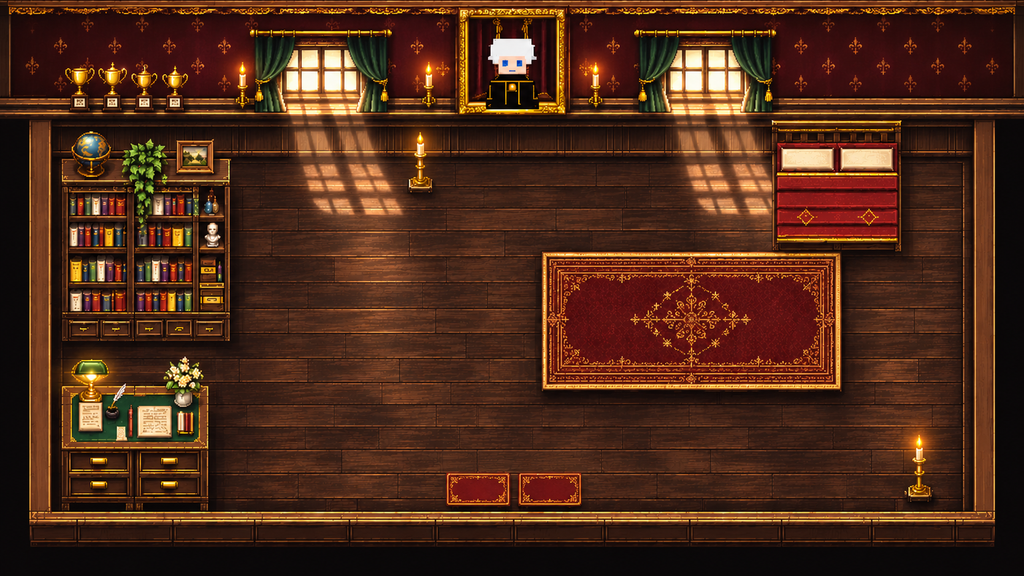
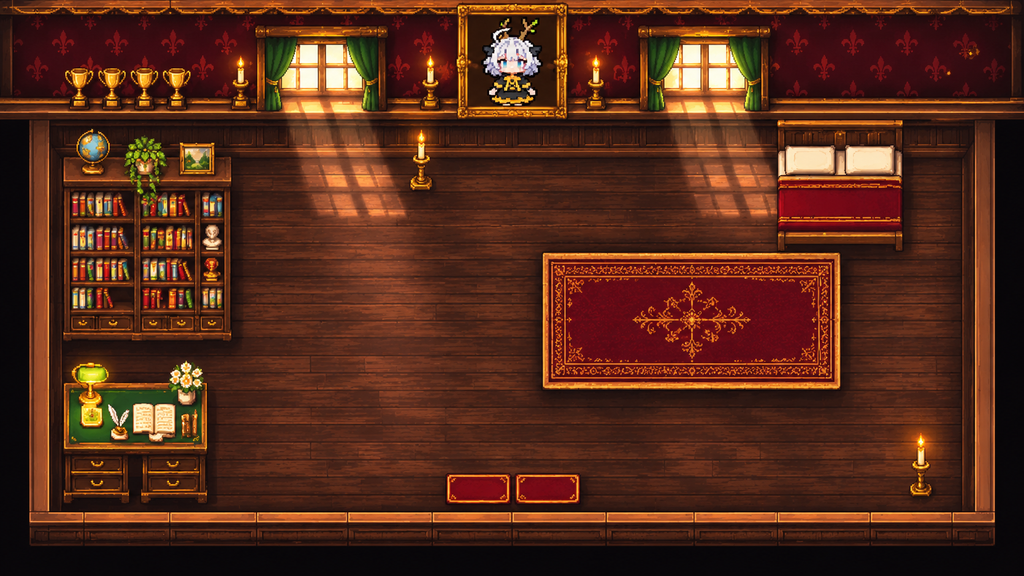
Add files via upload

diff --git a/index.html b/index.html
@@ -127,7 +127,7 @@ const cv=document.getElementById('c'), ctx=cv.getContext('2d'); ctx.scale(2,2); 
 const ROOM_HAS_FLAMES=true; // 底圖已經畫了燭火，就不再疊程式畫的火苗
 const ROOM_HAS_LIGHT=true;  // 底圖已經畫了窗光，程式只留很淡的燭光閃爍
 // 相馬出現的玻璃範圍（靠床那扇窗，邏輯座標 512x288）。換底圖時量一下窗玻璃的位置改這裡；設成 null 就用程式畫的窗。
-const SOMA_PANE={x:336,y:24,w:38,h:24,ox:3,oy:-3};
+const SOMA_PANE={x:334,y:23,w:38,h:25,ox:3,oy:-3};
 
 /* 地圖：每個字元一格
    # 牆  . 地板  r 地毯  W 窗  B 書架  D 書桌(含電腦)  b 床頭 d 床尾  S 獎盃架  C 燭台  P 畫框  G 門墊
@@ -230,30 +230,29 @@ function drawSoma(x,y,t){
   const PANE=SOMA_PANE||{x:x,y:y+4,w:24,h:24};const px0=PANE.x,py0=PANE.y,pw=PANE.w,ph=PANE.h;
   ctx.save();ctx.beginPath();ctx.rect(px0,py0,pw,ph);ctx.clip();
   // 逐列位移：頭往左上探、身體在右下，形成斜角；整體往右下偏，像從窗角探進來
-  if(SOMA_PANE)ctx.globalAlpha=1;
-  for(let r=0;r<40;r++){const lean=Math.round((r-6)*0.3);ctx.drawImage(somaCv,0,r,32,1,px0+(SOMA_PANE?SOMA_PANE.ox:-2)+lean,py0+(SOMA_PANE?SOMA_PANE.oy:-5)+r,32,1);}
-  ctx.globalAlpha=1;
+  if(ASSETS.soma&&SOMA_PANE){const im=ASSETS.soma,w=20,h=im.height*w/im.width;ctx.drawImage(im,px0+16,py0-1-k,w,h);}
+  else{for(let r=0;r<40;r++){const lean=Math.round((r-6)*0.3);ctx.drawImage(somaCv,0,r,32,1,px0+(SOMA_PANE?SOMA_PANE.ox:-2)+lean,py0+(SOMA_PANE?SOMA_PANE.oy:-5)+r,32,1);}}
   // 玻璃：把底圖的那塊窗（含窗櫺、窗光）半透明蓋回他身上，他就在玻璃後面；再補一點反光
-  if(SOMA_PANE&&ASSETS.room){ctx.globalAlpha=0.38;ctx.imageSmoothingEnabled=true;const sx=px0*ASSETS.room.width/512,sy=py0*ASSETS.room.height/288,sw=pw*ASSETS.room.width/512,sh=ph*ASSETS.room.height/288;
+  if(SOMA_PANE&&ASSETS.room){ctx.globalAlpha=0.22;ctx.imageSmoothingEnabled=true;const sx=px0*ASSETS.room.width/512,sy=py0*ASSETS.room.height/288,sw=pw*ASSETS.room.width/512,sh=ph*ASSETS.room.height/288;
     ctx.drawImage(ASSETS.room,sx,sy,sw,sh,px0,py0,pw,ph);ctx.imageSmoothingEnabled=false;ctx.globalAlpha=1;}
   else{ctx.fillStyle='rgba(255,255,255,.18)';for(let i=0;i<3;i++)ctx.fillRect(px0+4+i*8,py0,2,ph);ctx.fillStyle='rgba(255,255,255,.10)';ctx.fillRect(px0,py0,pw,6);}
   ctx.restore();
   // 影子：背光的人影投在窗下的地板光裡，拉長、往下倒、微微斜
-  if(SOMA_PANE){shctx.clearRect(0,0,32,40);shctx.drawImage(somaCv,0,0);shctx.globalCompositeOperation='source-in';shctx.fillStyle='#1a0c10';shctx.fillRect(0,0,32,40);shctx.globalCompositeOperation='source-over';
+  if(SOMA_PANE){shctx.clearRect(0,0,32,40);if(ASSETS.soma){shctx.drawImage(ASSETS.soma,12,8,17,20);}else shctx.drawImage(somaCv,0,0);shctx.globalCompositeOperation='source-in';shctx.fillStyle='#1a0c10';shctx.fillRect(0,0,32,40);shctx.globalCompositeOperation='source-over';
     const sill=py0+ph+2,sk=0.18,st=1.7;ctx.save();ctx.globalAlpha=0.32;ctx.setTransform(2,0,0,2,0,0); // 畫布是 2 倍，先回到邏輯座標
     ctx.transform(1,0,sk,-st,px0+SOMA_PANE.ox+4,sill+st*40);ctx.drawImage(shadowCv,0,0);ctx.restore();ctx.setTransform(2,0,0,2,0,0);}
   if(!SOMA_PANE){ctx.fillStyle='#3a2a20';ctx.fillRect(px0,y+15,pw,1);}
-  if(SOMA.timer>20&&((t>>5)&1)){ctx.fillStyle='#0a0809';ctx.fillRect(x+4,y-14,30,12);ctx.fillStyle='#e8e0d0';ctx.font='10px DotGothic16,monospace';ctx.fillText(window.t('ui.knock'),x+10,y-4);}
+  if(SOMA.timer>20&&((t>>5)&1)){ctx.fillStyle='#0a0809';ctx.fillRect(x+34,y-10,30,12);ctx.fillStyle='#e8e0d0';ctx.font='10px DotGothic16,monospace';ctx.fillText(window.t('ui.knock'),x+40,y);}
 }
 /* 玩家 */
 const P={x:7,y:6,dir:'down',step:0,moving:false,mx:0,my:0};
 
 /* ---------- 可替換素材 ---------- */
-const ROOM_VER=3; // 換底圖時把這個數字加一，瀏覽器才不會用舊圖
+const ROOM_VER=6; // 換底圖時把這個數字加一，瀏覽器才不會用舊圖
 const ASSETS={}; // name -> Image
-const ASSET_NAMES=['floor','wall','rug','window','bookshelf','desk','bed_head','bed_foot','trophy','candle','frame','mat','player','cat_poe','cat_ono','cat_bau','cat_col','cat_gal','cat_gar','buck','gramophone','room','soma'];
+const ASSET_NAMES=['floor','wall','rug','window','bookshelf','desk','bed_head','bed_foot','trophy','candle','frame','mat','player','cat_poe','cat_ono','cat_bau','cat_col','cat_gal','cat_gar','buck','gramophone','room','soma','player_down','player_down2','player_left','player_upleft','player_up'];
 let loaded=0;
-ASSET_NAMES.forEach(n=>{const im=new Image();im.onload=()=>{ASSETS[n]=im;};im.src=(n==='room'?'img/room.png?v='+ROOM_VER:'img/sprites/'+n+'.png');});
+ASSET_NAMES.forEach(n=>{const im=new Image();im.onload=()=>{ASSETS[n]=im;};im.src=(n==='room'?'img/room.png?v='+ROOM_VER:'img/sprites/'+n+'.png?v='+ROOM_VER);});
 
 /* ---------- 程式畫的佔位像素圖 ---------- */
 const px=(x,y,w,h,col)=>{ctx.fillStyle=col;ctx.fillRect(x,y,w,h)};
@@ -299,12 +298,130 @@ function drawBuck(x,y,t){const bob=((t>>3)&1);const sway=Math.round(Math.sin(t/9
   px(hx+14,hy+12,4,2,'#111');                                       // 出口
   px(hx+21,hy+9,3,2,'#c9a227');px(hx+22,hy+7,1,3,'#c9a227');       // 搖桿
 }
-function drawPlayer(x,y){const f=P.moving?((P.step>>2)&1):0;const leg=f?2:0;
-  px(x+10,y+2,12,10,'#f4f4f4');px(x+8,y+0,3,4,'#c9a227');px(x+21,y+0,3,4,'#c9a227');px(x+9,y+0,1,2,'#c9a227');px(x+22,y+0,1,2,'#c9a227');
-  px(x+11,y+12,10,6,'#f1dcc8');
-  if(P.dir!=='up'){const ox=P.dir==='left'?-2:P.dir==='right'?2:0;px(x+13+ox,y+14,2,2,'#2a4fd6');px(x+17+ox,y+14,2,2,'#2a4fd6');}
-  px(x+10,y+18,12,10,'#111');px(x+10,y+18,12,1,'#c9a227');px(x+8,y+24,16,4,'#111');px(x+8,y+27,16,1,'#c9a227');px(x+14,y+20,4,2,'#c9a227');
-  px(x+11+leg,y+28,3,4,'#111');px(x+18-leg,y+28,3,4,'#111');}
+/* ---------- 安谷本人：手繪像素圖（24x32，字元畫） ----------
+   . 透明  W 白髮  w 髮影  F 黑羽耳翼  g 鹿角  S 膚  s 膚影  B 眼  b 眼光  L 藍舌  K 黑  k 深灰  G 金  R 黃緞帶 */
+const PAL={o:'#2a1a22',h:'#d8cbb4',W:'#f4f4f4',w:'#cfcfd6',F:'#1a1a22',g:'#9a8366',S:'#f6dfca',s:'#e0b9a0',B:'#2a4fd6',b:'#9cc0ff',L:'#2a4fd6',K:'#111115',k:'#2a2630',G:'#c9a227',R:'#e8c23a'};
+const SPR={
+down:[
+".....h...h.....h...h....",
+"......h.h.......h.h.....",
+".......h.........h......",
+"......oh.........ho.....",
+"....ooWWWWWWWWWWWWoo....",
+"...oWWWWWWWWWWWWWWWWo...",
+"..oFWWWWWWWWWWWWWWWWFo..",
+"..oFWWWWWWWWWWWWWWWWFo..",
+"..oFWwWWWWWWWWWWWWwFo...",
+"...oWWSSSSSSSSSSSSWWo...",
+"...oWSSSSSSSSSSSSSSWo...",
+"...oSSSooSSSSSSooSSSo...",
+"...oSSSoBbSSSSoBbSSSo...",
+"...oSSSoBBSSSSoBBSSSo...",
+"...oSSSSSSSSSSSSSSSSo...",
+"....oSSSSSSLLSSSSSSo....",
+"....osSSSSSSSSSSSSso....",
+".....oosSSSSSSSSsoo.....",
+".......ooooooooooo......",
+".......oKKGKKKKGKo......",
+"......oKKKKRRKKKKKo.....",
+"......oKKGGGGGGGGKo.....",
+".....oKKKKKKKKKKKKKo....",
+".....oKKKKKKKKKKKKKo....",
+"....oKKKKKKKKKKKKKKKo...",
+"....oGGGGGGGGGGGGGGGo...",
+"....ooooooooooooooooo...",
+".......oKKo...oKKo......",
+".......oKKo...oKKo......",
+".......oKKo...oKKo......",
+"......okkkko.okkkko.....",
+"......oooooo.oooooo....."],
+up:[
+".....h...h.....h...h....",
+"......h.h.......h.h.....",
+".......h.........h......",
+"......oh.........ho.....",
+"....ooWWWWWWWWWWWWoo....",
+"...oWWWWWWWWWWWWWWWWo...",
+"..oFWWWWWWWWWWWWWWWWFo..",
+"..oFWWWWWWWWWWWWWWWWFo..",
+"..oFWWWWWWWWWWWWWWWWFo..",
+"...oWWWWWWWWWWWWWWWWo...",
+"...oWWWWWWWWWWWWWWWWo...",
+"...oWWWWWWWWWWWWWWWWo...",
+"...owWWWWWWWWWWWWWWwo...",
+"...owwWWWWWWWWWWWWwwo...",
+"...oowwwWWWWWWWWwwwoo...",
+"....oowwwwwwwwwwwwoo....",
+".....oSSwwwwwwwwSSo.....",
+"......oSSSSSSSSSSo......",
+".......oooooooooo.......",
+".......oKKKKKKKKKo......",
+"......oKKKRRRRKKKKo.....",
+"......oKKRRKKKKRRKo.....",
+".....oKKKGGGGGGGGKKo....",
+".....oKKKKKKKKKKKKKo....",
+"....oKKKKKKKKKKKKKKKo...",
+"....oGGGGGGGGGGGGGGGo...",
+"....ooooooooooooooooo...",
+".......oKKo...oKKo......",
+".......oKKo...oKKo......",
+".......oKKo...oKKo......",
+"......okkkko.okkkko.....",
+"......oooooo.oooooo....."],
+left:[
+".........h...h..........",
+"..........h.h...........",
+"...........h............",
+"........oooho.oooo......",
+"......ooWWWWWWWWWWoo....",
+".....oWWWWWWWWWWWWWWo...",
+"....oWWWWWWWWWWWWWWWFo..",
+"....oWWWWWWWWWWWWWWWFo..",
+"....oWwWWWWWWWWWWWWFo...",
+"....oSSSSSWWWWWWWWWo....",
+"....oSSSSSSWWWWWWWWo....",
+"....oSSooSSWWWWWWWWo....",
+"....oSSoBbSWWWWWWWWo....",
+"....oSSoBBSWWWWWWwWo....",
+"....oSSSSSSWWWWWWWo.....",
+"....oLSSSSSSWWWWWo......",
+".....osSSSSSSWWWo.......",
+"......oosSSSSoo.........",
+"........oooooo..........",
+"........oKKGKKo.........",
+".......oKKKKKKKo........",
+".......oKGGGGGKo........",
+"......oKKKKKKKKKo.......",
+"......oKKKKKKKKKo.......",
+".....oKKKKKKKKKKKo......",
+".....oGGGGGGGGGGGo......",
+".....ooooooooooooo......",
+"........oKKo.oKKo.......",
+"........oKKo.oKKo.......",
+"........oKKo.oKKo.......",
+".......okkkkokkkko......",
+".......oooooooooooo....."]};
+SPR.right=SPR.left.map(r=>r.split('').reverse().join(''));
+// 把字元畫烤成離屏畫布：每個方向 3 幀（站、左腳、右腳）
+const SPRC={};
+(function(){for(const d in SPR){SPRC[d]=[];for(let f=0;f<3;f++){const c=document.createElement('canvas');c.width=24;c.height=32;const g=c.getContext('2d');
+  const rows=SPR[d];const legTop=27;const bob=f?1:0;
+  for(let y=0;y<32;y++)for(let x=0;x<24;x++){const ch=rows[y][x];if(ch==='.')continue;
+    let dy=0;if(y>=legTop){ // 腿：走路時一隻抬一格
+      const isLeft=x<12;if(f===1&&isLeft)dy=-1;if(f===2&&!isLeft)dy=-1;if(y+dy<legTop-1)continue;}
+    else dy=-bob; // 身體隨步伐上下 1px
+    g.fillStyle=PAL[ch];g.fillRect(x,y+dy+(y>=legTop?0:0),1,1);}
+  // 走路幀補回腿頂那一列，免得抬腿時斷掉
+  SPRC[d].push(c);}}})();
+function drawPlayer(x,y){const f=P.moving?(1+((P.step>>3)&1)):0;
+  // 有 img/sprites/player_*.png（64px 高、畫布 2 倍）就用圖；沒有就用字元畫
+  const pick={down:f===2?'player_down2':'player_down',left:'player_left',right:'player_left',up:'player_up'}[P.dir];
+  const im=ASSETS[pick]||ASSETS.player_down;
+  if(im){const h=38,w=im.width*h/im.height,bob=P.moving?((P.step>>3)&1):0;ctx.save();
+    if(P.dir==='right'){ctx.translate(x+16+w/2,0);ctx.scale(-1,1);ctx.drawImage(im,0,y+32-h-bob,w,h);}
+    else ctx.drawImage(im,x+16-w/2,y+32-h-bob,w,h);
+    ctx.restore();return;}
+  ctx.drawImage(SPRC[P.dir][f],x+4,y);}
 
 /* 格子型別 */
 function tile(cx,cy){return (MAP[cy]||'')[cx]||'#';}
@@ -318,7 +435,9 @@ function render(){tick++;
     ctx.imageSmoothingEnabled=true;ctx.drawImage(ASSETS.room,0,0,512,288);ctx.imageSmoothingEnabled=false;
     for(let y=0;y<H;y++)for(let x=0;x<W;x++){const t=MAP[y][x];
       if(t==='C'&&!ROOM_HAS_FLAMES)drawFlame(x*T,y*T,tick);
-      if(t==='M'){ASSETS.gramophone?ctx.drawImage(ASSETS.gramophone,x*T,y*T,T,T):drawGramophone(x*T,y*T,tick);}}
+      if(t==='M'){const im=ASSETS.gramophone;if(im){const h=34,w=im.width*h/im.height,bob=bgmOn?((tick>>4)&1):0;ctx.drawImage(im,x*T+16-w/2,y*T+32-h-bob,w,h);
+          if(bgmOn){const n=(tick>>4)&1;px(x*T+24,y*T-2-n*3,2,2,'#f0d27a');px(x*T+28,y*T+3-n*2,2,2,'#f0d27a');}}
+        else drawGramophone(x*T,y*T,tick);}}
   }else
   for(let y=0;y<H;y++)for(let x=0;x<W;x++){const t=MAP[y][x],X=x*T,Y=y*T;
     const useImg=n=>{if(ASSETS[n]){ctx.drawImage(ASSETS[n],X,Y,T,T);return true}return false};
@@ -337,9 +456,9 @@ function render(){tick++;
       case 'G':useImg('mat')||drawMat(X,Y);break;
       case 'M':useImg('gramophone')||drawGramophone(X,Y,tick);break;
     }}
-  if(SOMA.at){ASSETS.soma?ctx.drawImage(ASSETS.soma,SOMA.at[0]*T,SOMA.at[1]*T,T,T):drawSoma(SOMA.at[0]*T,SOMA.at[1]*T,tick);}
-  CATS.forEach(c=>{if(ASSETS[c.id])ctx.drawImage(ASSETS[c.id],c.x*T,c.y*T,T,T);else drawCat(c.x*T,c.y*T,c.c,tick+c.x*7);});
-  if(ASSETS.buck)ctx.drawImage(ASSETS.buck,BUCK.x*T+BUCK.mx,BUCK.y*T+BUCK.my,T,T);else drawBuck(BUCK.x*T+BUCK.mx,BUCK.y*T+BUCK.my,tick);
+  if(SOMA.at)drawSoma(SOMA.at[0]*T,SOMA.at[1]*T,tick);
+  CATS.forEach(c=>{const im=ASSETS[c.id];if(im){const h=24,w=im.width*h/im.height,bob=((tick+c.x*7)>>5)&1;ctx.drawImage(im,c.x*T+16-w/2,c.y*T+32-h-bob,w,h);}else drawCat(c.x*T,c.y*T,c.c,tick+c.x*7);});
+  if(ASSETS.buck){const im=ASSETS.buck,h=44,w=im.width*h/im.height,bob=(tick>>3)&1,sway=Math.round(Math.sin(tick/9)*1.5);ctx.drawImage(im,BUCK.x*T+BUCK.mx+16-w/2+sway,BUCK.y*T+BUCK.my+32-h-bob,w,h);}else drawBuck(BUCK.x*T+BUCK.mx,BUCK.y*T+BUCK.my,tick);
   if(meowBubble&&tick<meowBubble.until){const c=CATS.find(k=>k.id===meowBubble.id);if(c){const bx=c.x*T+6,by=c.y*T-12;ctx.fillStyle='#0a0809';ctx.fillRect(bx,by,22,11);ctx.fillStyle='#e8e0d0';ctx.font='9px DotGothic16,monospace';ctx.fillText(window.t('ui.meow'),bx+3,by+9);}}
   // 玩家（走路插值）
   const px_=P.x*T+P.mx, py_=P.y*T+P.my;
